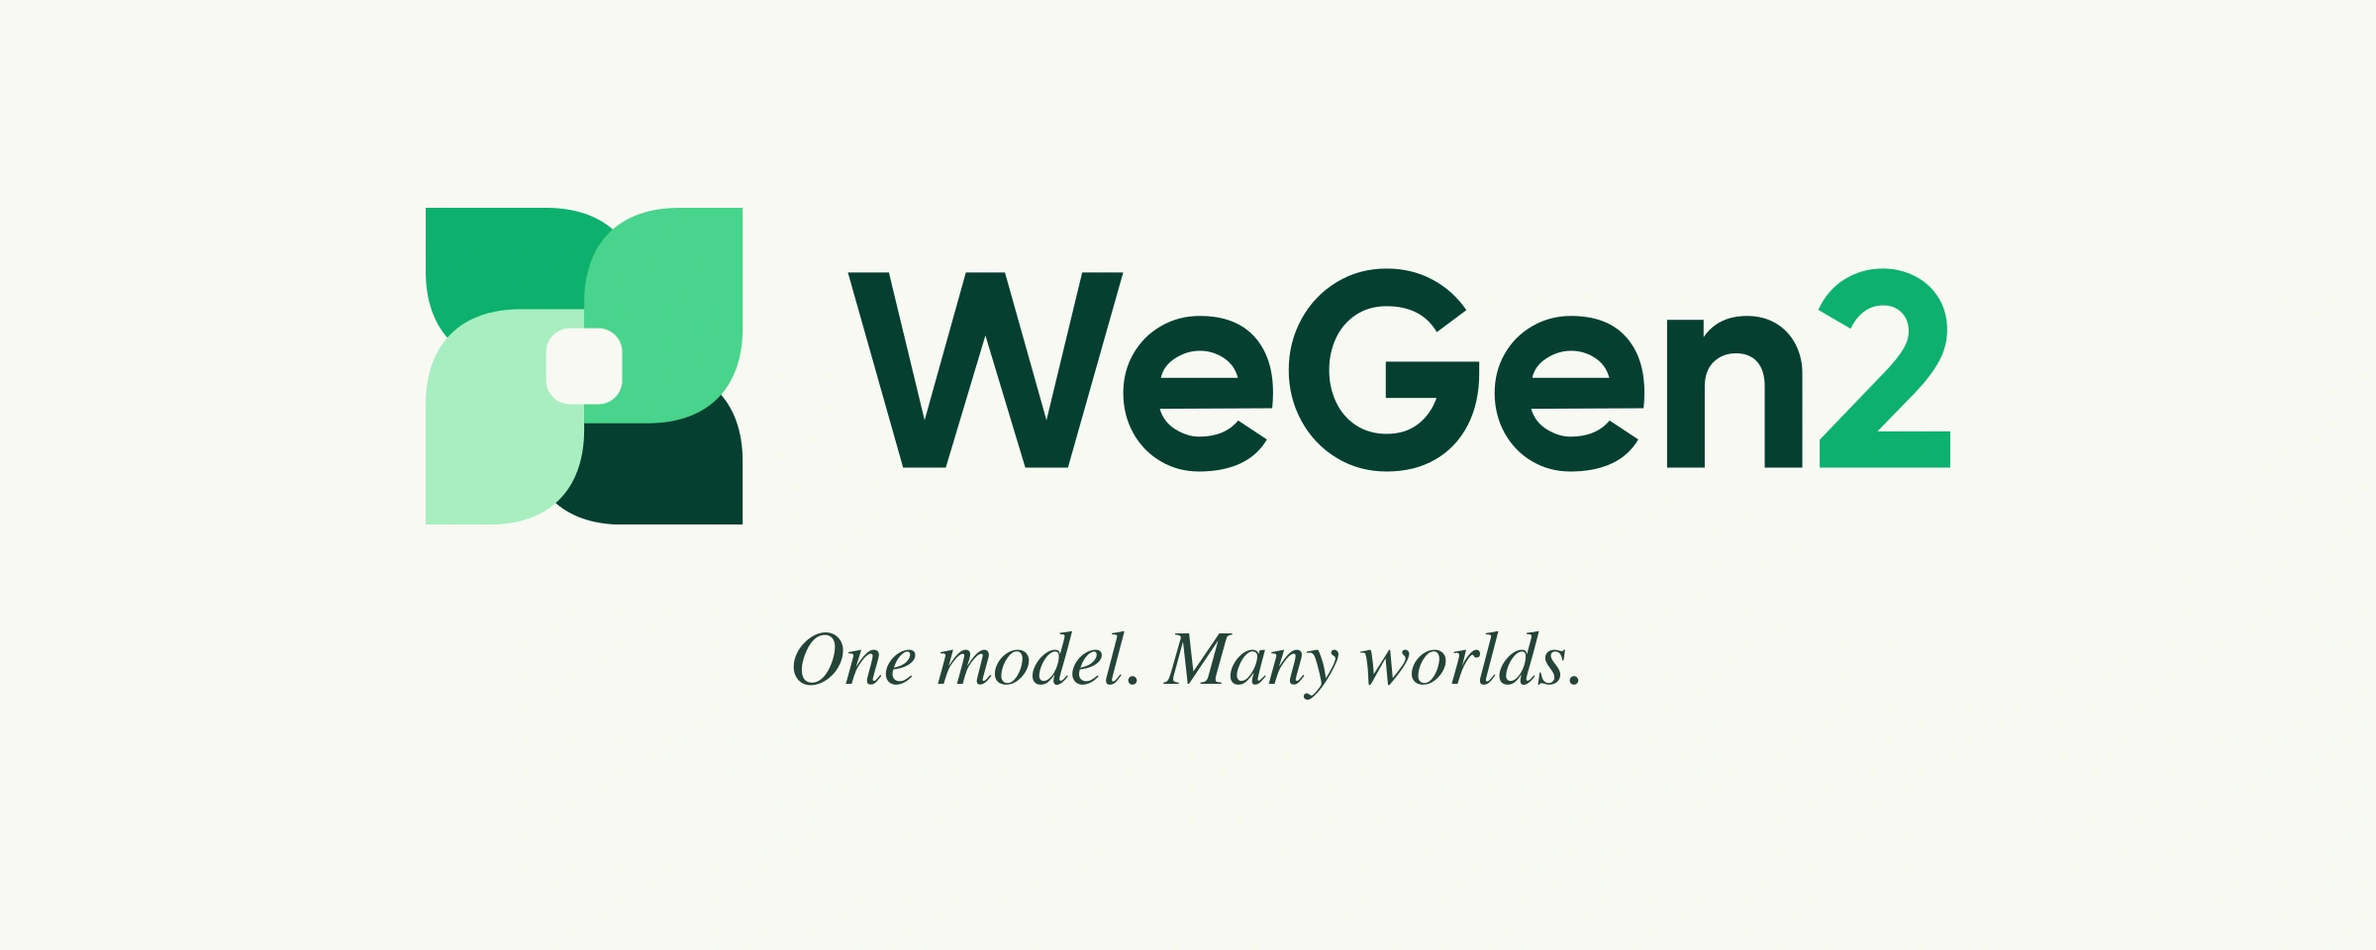
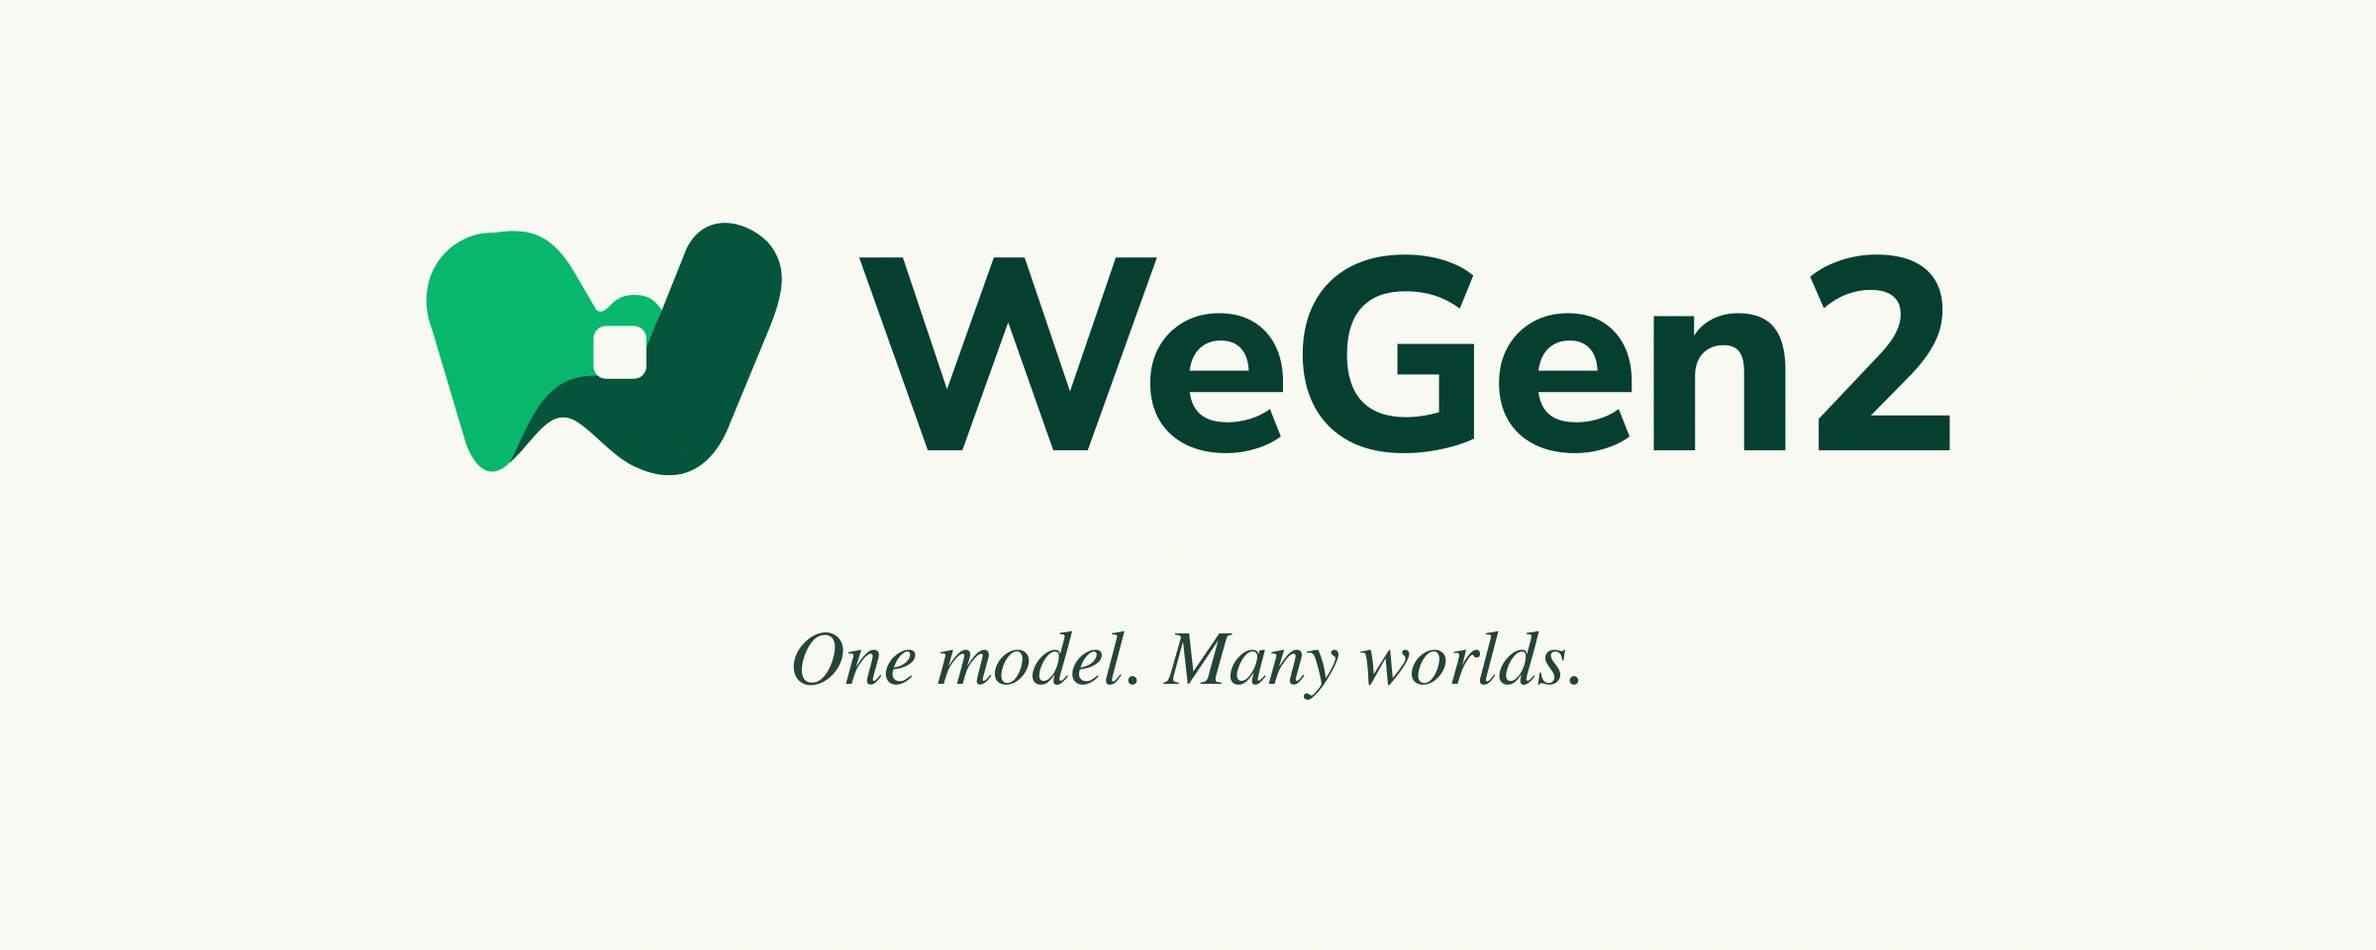
feat: Introduce the unfolding-W WeGen2 identity

Changed region(s): [[0.1562, 0.2188, 0.8438, 0.5625]]

diff --git a/WeGen2/index.html b/WeGen2/index.html
@@ -11,12 +11,13 @@
     <link rel="canonical" href="https://zhuangshaobin.github.io/WeGen2/" />
     <meta property="og:title" content="WeGen2 — Native Pixel-Space Multimodal Creation" />
     <meta property="og:description" content="Bring an idea. See where it goes. Image generation, editing and composition with WeGen2." />
-    <meta property="og:image" content="https://zhuangshaobin.github.io/WeGen2/assets/release-cover.webp" />
+    <meta property="og:image" content="https://zhuangshaobin.github.io/WeGen2/assets/release-cover.webp?v=20261119w" />
     <meta property="og:type" content="website" />
     <meta name="twitter:card" content="summary_large_image" />
     <meta name="theme-color" content="#f8f9f3" />
     <meta name="robots" content="noindex,nofollow" />
-    <link rel="icon" type="image/svg+xml" href="assets/wegen2-mark.svg?v=20261118b" />
+    <link rel="icon" type="image/svg+xml" href="assets/wegen2-favicon.svg?v=20261119w" />
+    <link rel="apple-touch-icon" sizes="180x180" href="assets/wegen2-apple-touch-icon.png?v=20261119w" />
     <!-- INLINE_STYLE_START -->
     <style>
       :root {
@@ -2015,7 +2016,7 @@
     <a class="skip-link" href="#main">Skip to content</a>
     <header class="site-header">
       <a class="wordmark" href="#main" aria-label="WeGen2 home"
-        ><img alt="" decoding="async" height="38" src="assets/wegen2-mark.svg?v=20261118b" width="38" /><span>WeGen2</span></a
+        ><img alt="" decoding="async" height="38" src="assets/wegen2-mark.svg?v=20261119w" width="38" /><span>WeGen2</span></a
       >
       <nav aria-label="Main navigation">
         <a href="#capabilities">Explore</a><a href="#film">Film</a><a href="#method">The model</a
@@ -2026,53 +2027,49 @@
       <section class="hero brand-hero" aria-labelledby="hero-title">
         <p class="brand-eyebrow">Unified multimodal creation</p>
         <h1 id="hero-title" aria-label="WeGen2">
-          <svg
-            class="hero-wordmark"
-            xmlns="http://www.w3.org/2000/svg"
-            viewBox="0 0 520 128"
-            width="520"
-            height="128"
-            role="img"
-            aria-labelledby="wg2-light-title wg2-light-desc"
-          >
-            <title id="wg2-light-title">WeGen2</title>
-            <desc id="wg2-light-desc">WeGen2 wordmark with an original four-leaf pixel mark; all lettering is vector outlines.</desc>
+          <svg class="hero-wordmark" xmlns="http://www.w3.org/2000/svg" width="508" height="128" viewBox="0 0 508 128" role="img" aria-label="WeGen2">
+            <title>WeGen2</title>
+            <desc>An unfolding W with a pixel-shaped open centre. Original WeGen2 identity.</desc>
             <defs>
-              <mask id="wg2-light-aperture" maskUnits="userSpaceOnUse" x="0" y="0" width="128" height="128">
+              <mask id="wg2-hero-pixel" maskUnits="userSpaceOnUse" x="0" y="0" width="128" height="128">
                 <rect width="128" height="128" fill="white" />
-                <rect x="52" y="52" width="24" height="24" rx="7.5" fill="black" />
+                <path d="M64 54 H73 A4 4 0 0 1 77 58 V67 A4 4 0 0 1 73 71 H64 A4 4 0 0 1 60 67 V58 A4 4 0 0 1 64 54 Z" fill="black" />
               </mask>
             </defs>
-            <g id="wg2-light-petals" mask="url(#wg2-light-aperture)">
-              <path id="wg2-light-leaf-nw" d="M14 14H52C71 14 82 25 82 44V64H44C25 64 14 53 14 34Z" transform="rotate(0 64 64)" fill="#0DB16E" />
-              <path id="wg2-light-leaf-se" d="M14 14H52C71 14 82 25 82 44V64H44C25 64 14 53 14 34Z" transform="rotate(180 64 64)" fill="#073F32" />
-              <path id="wg2-light-leaf-ne" d="M14 14H52C71 14 82 25 82 44V64H44C25 64 14 53 14 34Z" transform="rotate(90 64 64)" fill="#49D38B" />
-              <path id="wg2-light-leaf-sw" d="M14 14H52C71 14 82 25 82 44V64H44C25 64 14 53 14 34Z" transform="rotate(270 64 64)" fill="#A8EDC0" />
+            <g mask="url(#wg2-hero-pixel)">
+              <path
+                d="M28 24 C40 22 47 25 54 37 L61 49 C65 51 65 44 73 44 C78 44 80 46 82 49 L90 29 C96 17 109 20 116 27 C123 35 121 44 116 56 L104 85 C98 101 87 105 75 100 C67 97 61 89 55 85 C46 79 41 91 33 98 C27 104 22 100 19 92 L8 55 C3 42 9 29 21 25 C24 24 26 24 28 24 Z"
+                fill="#08B86C"
+              />
+              <path
+                d="M82 49 L90 29 C96 17 109 20 116 27 C123 35 121 44 116 56 L104 85 C98 101 87 105 75 100 C67 97 61 89 55 85 C46 79 41 91 33 98 C39 87 43 70 60 70 L66 70 C76 70 77 59 82 49 Z"
+                fill="#07533C"
+              />
             </g>
-            <g id="wg2-light-wordmark">
+            <g fill="#073F32">
               <path
-                d="M147.2 34.400000000000006H160.136L171.4 81.04L184.424 34.400000000000006H196.744L209.856 81.04L221.12 34.400000000000006H234.05599999999998L216.632 96.0H203.168L190.584 54.288000000000004L178.088 96.0H164.624Z"
-                fill="#073F32"
+                transform="translate(144.00000 94) scale(0.08800000 -0.08800000)"
+                d="M267.554443359375 0 16.675048828125 705H176.239501953125L358.710205078125 160.515869140625H315.577880859375L508.927978515625 705H621.468994140625L805.939697265625 160.515869140625H768.7470703125L954.84423828125 705H1105.216064453125L852.336669921875 0H726.289794921875L549.445556640625 501.27978515625H573.38525390625L393.91455078125 0Z"
               />
               <path
-                d="M234.07437499999997 72.416Q234.07437499999997 65.64 237.24237499999998 60.096000000000004Q240.410375 54.552 245.95437499999997 51.34Q251.49837499999998 48.128 258.186375 48.128Q269.450375 48.128 275.390375 54.596000000000004Q281.330375 61.064 281.330375 72.328Q281.330375 74.70400000000001 281.066375 77.256L245.602375 77.432Q246.834375 81.656 250.57437499999997 83.944Q254.31437499999998 86.232 258.010375 86.232Q266.10637499999996 86.232 270.330375 81.128L279.39437499999997 87.112Q276.402375 92.216 270.946375 94.72399999999999Q265.490375 97.232 258.010375 97.232Q251.322375 97.232 245.822375 93.976Q240.322375 90.72 237.198375 85.044Q234.07437499999997 79.368 234.07437499999997 72.416ZM258.186375 59.128Q254.138375 59.128 250.442375 61.504000000000005Q246.746375 63.88 245.954375 67.664H270.242375Q269.186375 63.616 265.754375 61.372Q262.32237499999997 59.128 258.186375 59.128Z"
-                fill="#073F32"
+                transform="translate(236.14375 94) scale(0.08800000 -0.08800000)"
+                d="M312.89111328125 -10.62646484375Q226.445556640625 -10.62646484375 163.7830810546875 20.686767578125Q101.12060546875 52 67.36767578125 109.4698486328125Q33.61474609375 166.939697265625 33.61474609375 245.2529296875Q33.61474609375 321.2529296875 66.054443359375 378.566162109375Q98.494140625 435.87939453125 155.560302734375 468.5360107421875Q212.62646484375 501.192626953125 285.505859375 501.192626953125Q357.698486328125 501.192626953125 409.7344970703125 470.566162109375Q461.7705078125 439.939697265625 490.3668212890625 383.8433837890625Q518.963134765625 327.7470703125 518.963134765625 250.807373046875V212.86767578125H158.107177734375V290.819091796875H409.9765625L394.289794921875 277.072021484375Q394.289794921875 338.180908203125 367.7353515625 369.669189453125Q341.180908203125 401.157470703125 292.072021484375 401.157470703125Q255.39697265625 401.157470703125 229.1859130859375 384.163330078125Q202.974853515625 367.169189453125 189.1976318359375 335.2713623046875Q175.42041015625 303.37353515625 175.42041015625 257.819091796875V250.192626953125Q175.42041015625 198.951416015625 190.854248046875 166.2403564453125Q206.2880859375 133.529296875 237.7822265625 117.8785400390625Q269.2763671875 102.227783203125 316.14404296875 102.227783203125Q355.89111328125 102.227783203125 397.0477294921875 114.2579345703125Q438.204345703125 126.2880859375 471.2646484375 150.7822265625L510.963134765625 50.494140625Q474.39697265625 22.433837890625 420.457275390625 5.9036865234375Q366.517578125 -10.62646484375 312.89111328125 -10.62646484375Z"
               />
               <path
-                d="M346.383375 66.256Q346.383375 75.49600000000001 342.819375 82.492Q339.25537499999996 89.488 332.65537499999994 93.36Q326.05537499999997 97.232 317.167375 97.232Q308.455375 97.232 301.371375 92.92Q294.287375 88.608 290.283375 81.26Q286.27937499999996 73.912 286.27937499999996 65.2Q286.27937499999996 56.488 290.283375 49.14Q294.287375 41.792 301.371375 37.480000000000004Q308.455375 33.168000000000006 317.167375 33.168000000000006Q325.08737499999995 33.168000000000006 331.59937499999995 36.644000000000005Q338.11137499999995 40.120000000000005 342.335375 46.28L333.00737499999997 53.232Q328.167375 45.048 317.167375 45.048Q311.62337499999995 45.048 307.48737499999993 47.776Q303.35137499999996 50.504000000000005 301.19537499999996 55.124Q299.03937499999995 59.744 299.03937499999995 65.2Q299.03937499999995 70.656 301.19537499999996 75.27600000000001Q303.35137499999996 79.896 307.48737499999993 82.624Q311.62337499999995 85.352 317.167375 85.352Q323.06337499999995 85.352 327.06737499999997 82.272Q331.071375 79.19200000000001 332.91937499999995 74.0H316.903375V62.56H346.383375Z"
-                fill="#073F32"
+                transform="translate(283.75625 94) scale(0.08800000 -0.08800000)"
+                d="M420.072021484375 -10.62646484375Q300.87939453125 -10.62646484375 218.5 34.0Q136.12060546875 78.62646484375 93.0242919921875 159.62646484375Q49.927978515625 240.62646484375 49.927978515625 350.060302734375Q49.927978515625 462.060302734375 94.6507568359375 544.0301513671875Q139.37353515625 626 223.505859375 670.813232421875Q307.63818359375 715.62646484375 425.336669921875 715.62646484375Q475.0234375 715.62646484375 521.14990234375 706.439697265625Q567.2763671875 697.2529296875 606.589599609375 680.0360107421875Q645.90283203125 662.819091796875 673.589599609375 638.698486328125L624.324951171875 518.33837890625Q577.63818359375 551.892822265625 529.89111328125 566.639892578125Q482.14404296875 581.386962890625 425.963134765625 581.386962890625Q319.2880859375 581.386962890625 265.546875 522.025146484375Q211.8056640625 462.663330078125 211.8056640625 350.060302734375Q211.8056640625 237.39697265625 266.5770263671875 179.1917724609375Q321.348388671875 120.986572265625 428.2646484375 120.986572265625Q463.566162109375 120.986572265625 501.7470703125 128.046875Q539.927978515625 135.107177734375 577.36181640625 147.854248046875L548.289794921875 84.589599609375V277.2294921875H396.313232421875V388.830810546875H676.2763671875V42.62646484375Q641.7705078125 26 599.330810546875 14.186767578125Q556.89111328125 2.37353515625 511.1080322265625 -4.12646484375Q465.324951171875 -10.62646484375 420.072021484375 -10.62646484375Z"
               />
               <path
-                d="M351.24 72.416Q351.24 65.64 354.408 60.096000000000004Q357.576 54.552 363.12 51.34Q368.66400000000004 48.128 375.35200000000003 48.128Q386.61600000000004 48.128 392.55600000000004 54.596000000000004Q398.49600000000004 61.064 398.49600000000004 72.328Q398.49600000000004 74.70400000000001 398.232 77.256L362.76800000000003 77.432Q364.0 81.656 367.74 83.944Q371.48 86.232 375.17600000000004 86.232Q383.27200000000005 86.232 387.49600000000004 81.128L396.56 87.112Q393.56800000000004 92.216 388.112 94.72399999999999Q382.656 97.232 375.17600000000004 97.232Q368.488 97.232 362.988 93.976Q357.488 90.72 354.36400000000003 85.044Q351.24 79.368 351.24 72.416ZM375.35200000000003 59.128Q371.30400000000003 59.128 367.60800000000006 61.504000000000005Q363.91200000000003 63.88 363.12 67.664H387.408Q386.35200000000003 63.616 382.92 61.372Q379.488 59.128 375.35200000000003 59.128Z"
-                fill="#073F32"
+                transform="translate(348.35312 94) scale(0.08800000 -0.08800000)"
+                d="M312.89111328125 -10.62646484375Q226.445556640625 -10.62646484375 163.7830810546875 20.686767578125Q101.12060546875 52 67.36767578125 109.4698486328125Q33.61474609375 166.939697265625 33.61474609375 245.2529296875Q33.61474609375 321.2529296875 66.054443359375 378.566162109375Q98.494140625 435.87939453125 155.560302734375 468.5360107421875Q212.62646484375 501.192626953125 285.505859375 501.192626953125Q357.698486328125 501.192626953125 409.7344970703125 470.566162109375Q461.7705078125 439.939697265625 490.3668212890625 383.8433837890625Q518.963134765625 327.7470703125 518.963134765625 250.807373046875V212.86767578125H158.107177734375V290.819091796875H409.9765625L394.289794921875 277.072021484375Q394.289794921875 338.180908203125 367.7353515625 369.669189453125Q341.180908203125 401.157470703125 292.072021484375 401.157470703125Q255.39697265625 401.157470703125 229.1859130859375 384.163330078125Q202.974853515625 367.169189453125 189.1976318359375 335.2713623046875Q175.42041015625 303.37353515625 175.42041015625 257.819091796875V250.192626953125Q175.42041015625 198.951416015625 190.854248046875 166.2403564453125Q206.2880859375 133.529296875 237.7822265625 117.8785400390625Q269.2763671875 102.227783203125 316.14404296875 102.227783203125Q355.89111328125 102.227783203125 397.0477294921875 114.2579345703125Q438.204345703125 126.2880859375 471.2646484375 150.7822265625L510.963134765625 50.494140625Q474.39697265625 22.433837890625 420.457275390625 5.9036865234375Q366.517578125 -10.62646484375 312.89111328125 -10.62646484375Z"
               />
               <path
-                d="M417.173 49.36V54.816Q421.749 48.128 430.901 48.128Q436.093 48.128 440.053 50.504000000000005Q444.01300000000003 52.88 446.169 57.06Q448.325 61.24 448.325 66.256V96.0H436.445V70.304Q436.445 65.288 434.06899999999996 62.604Q431.693 59.92 427.38100000000003 59.92Q423.15700000000004 59.92 420.341 62.648Q417.52500000000003 65.376 417.52500000000003 70.392V96.0H405.64500000000004V49.36Z"
-                fill="#073F32"
+                transform="translate(395.96562 94) scale(0.08800000 -0.08800000)"
+                d="M58.422119140625 0V490.566162109375H205.7939453125V398.517578125H194.7939453125Q217.733642578125 448.38525390625 263.2939453125 474.7889404296875Q308.854248046875 501.192626953125 366.601318359375 501.192626953125Q425.601318359375 501.192626953125 463.76653575067934 478.79390920474543Q501.9317531419837 456.3951914563658 520.7665357506794 410.4778200721877Q539.601318359375 364.5604486880095 539.601318359375 294.554443359375V0H388.60302734375V287.927978515625Q388.60302734375 322.169189453125 380.35595703125 343.35009765625Q372.10888671875 364.531005859375 355.6598909818209 374.46484375Q339.21089524489184 384.398681640625 313.7587890625 384.398681640625Q282.457275390625 384.398681640625 258.8277013442096 370.8428236607143Q235.19812729779412 357.2869656808036 222.30926872702207 332.38201729910713Q209.42041015625 307.4770689174107 209.42041015625 274.060302734375V0Z"
               />
               <path
-                d="M474.829875 65.288Q478.173875 61.768 480.021875 58.82Q481.869875 55.872 481.869875 52.968Q481.869875 49.272000000000006 479.62587499999995 47.028000000000006Q477.381875 44.784000000000006 473.861875 44.784000000000006Q470.429875 44.784000000000006 467.789875 46.764Q465.149875 48.744 463.565875 52.176L453.357875 46.192Q456.261875 39.856 461.717875 36.512Q467.173875 33.168000000000006 473.685875 33.168000000000006Q479.053875 33.168000000000006 483.717875 35.5Q488.381875 37.832 491.19787499999995 42.232Q494.013875 46.632000000000005 494.013875 52.528000000000006Q494.013875 57.808 491.373875 62.56Q488.733875 67.312 483.981875 72.24000000000001L472.013875 84.56H494.981875V96.0H453.797875V87.2Z"
-                fill="#0DB16E"
+                transform="translate(447.62500 94) scale(0.08800000 -0.08800000)"
+                d="M74.36181640625 0V114.733642578125L294.531005859375 347.39697265625Q323.33837890625 377.89111328125 340.4288330078125 403.072021484375Q357.519287109375 428.2529296875 365.7362060546875 451.2772216796875Q373.953125 474.301513671875 373.953125 497.169189453125Q373.953125 541.2177734375 345.58544921875 563.9288330078125Q317.2177734375 586.639892578125 263.482421875 586.639892578125Q219.927978515625 586.639892578125 176.994140625 570.392822265625Q134.060302734375 554.145751953125 93.060302734375 519.651611328125L43.169189453125 634.445556640625Q87.048583984375 671.505859375 151.4581298828125 693.566162109375Q215.86767578125 715.62646484375 284.494140625 715.62646484375Q363.313232421875 715.62646484375 417.192626953125 692.1566162109375Q471.072021484375 668.686767578125 499.01171875 623.7470703125Q526.951416015625 578.807373046875 526.951416015625 514.2412109375Q526.951416015625 482.2412109375 519.7646484375 451.7412109375Q512.577880859375 421.2412109375 497.2344970703125 391.3978271484375Q481.89111328125 361.554443359375 458.2344970703125 330.36767578125Q434.577880859375 299.180908203125 400.951416015625 265.494140625L225.7939453125 87.03515625V127.2998046875H553.324951171875V0Z"
               />
             </g>
           </svg>
@@ -2125,14 +2122,14 @@
             controls
             playsinline
             preload="none"
-            poster="assets/film-poster-v3.webp"
+            poster="assets/film-poster-v7.webp"
             width="1920"
             height="1080"
             aria-label="WeGen2 showcase and model introduction"
           >
-            <source src="assets/wegen2-film-v6-720.mp4" type="video/mp4" />
-            <track kind="captions" src="assets/film-captions-v6.vtt" srclang="en" label="English descriptions" />
-            Your browser does not support embedded video. <a href="assets/wegen2-film-v6.mp4">Download the film</a>.
+            <source src="assets/wegen2-film-v7-720.mp4" type="video/mp4" />
+            <track kind="captions" src="assets/film-captions-v7.vtt" srclang="en" label="English descriptions" />
+            Your browser does not support embedded video. <a href="assets/wegen2-film-v7.mp4">Download the film</a>.
           </video>
           <div class="film-start" hidden>
             <button id="film-start-button" type="button"><span aria-hidden="true">▷</span><span class="film-start-label">Play film</span></button>
@@ -2156,7 +2153,7 @@
                 <option value="360">360p</option>
               </select></label
             >
-            <a href="assets/wegen2-film-v6.mp4" download>Download 1080p ↗</a><a href="film-transcript.html?v=film6">Visual transcript ↗</a>
+            <a href="assets/wegen2-film-v7.mp4" download>Download 1080p ↗</a><a href="film-transcript.html?v=film7">Visual transcript ↗</a>
           </div>
         </div>
         <p class="fine-print">Model-generated images, presented through editorial motion design. Original instrumental score.</p>
@@ -2813,7 +2810,7 @@ next_image.save("paper-world-night.png")</code></pre>
     </main>
     <footer class="wrap">
       <a class="wordmark" href="#main"
-        ><img alt="" decoding="async" height="30" src="assets/wegen2-mark.svg?v=20261118b" width="30" /><span>WeGen2</span></a
+        ><img alt="" decoding="async" height="30" src="assets/wegen2-mark.svg?v=20261119w" width="30" /><span>WeGen2</span></a
       >
       <p>Native pixels. Multimodal context. Visual creation.</p>
       <a href="#main">Back to top ↑</a>
@@ -3111,15 +3108,15 @@ next_image.save("paper-world-night.png")</code></pre>
     </script>
     <script type="application/json" id="film-config-data">
       {
-        "mediaPath": "assets/film-hls-v6/",
+        "mediaPath": "assets/film-hls-v7/",
         "mirrors": [
-          "https://raw.githubusercontent.com/zhuangshaobin/zhuangshaobin.github.io/e36372eb91c5d27dea8d3023771f806f729833d0/WeGen2/assets/film-hls-v6/",
-          "https://cdn.jsdelivr.net/gh/zhuangshaobin/zhuangshaobin.github.io@e36372eb91c5d27dea8d3023771f806f729833d0/WeGen2/assets/film-hls-v6/"
+          "https://raw.githubusercontent.com/zhuangshaobin/zhuangshaobin.github.io/49e3856ef42a50f1781efac4616557cb14b677e5/WeGen2/assets/film-hls-v7/",
+          "https://cdn.jsdelivr.net/gh/zhuangshaobin/zhuangshaobin.github.io@49e3856ef42a50f1781efac4616557cb14b677e5/WeGen2/assets/film-hls-v7/"
         ],
         "library": "player/hls.light-1.7.4.min.js",
         "libraryFallback": "https://cdn.jsdelivr.net/npm/hls.js@1.7.4/dist/hls.light.min.js",
         "libraryIntegrity": "sha384-vpNtFjJmrPAaL9LfqByx3MxTVjqrtQ6Ue6UVNnFeghNrhE0uvpydDr3tkTVcBgDz",
-        "mp4Sources": { "480": "assets/wegen2-film-v6-480.mp4", "720": "assets/wegen2-film-v6-720.mp4", "1080": "assets/wegen2-film-v6.mp4" }
+        "mp4Sources": { "480": "assets/wegen2-film-v7-480.mp4", "720": "assets/wegen2-film-v7-720.mp4", "1080": "assets/wegen2-film-v7.mp4" }
       }
     </script>
     <!-- INLINE_DATA_END -->
